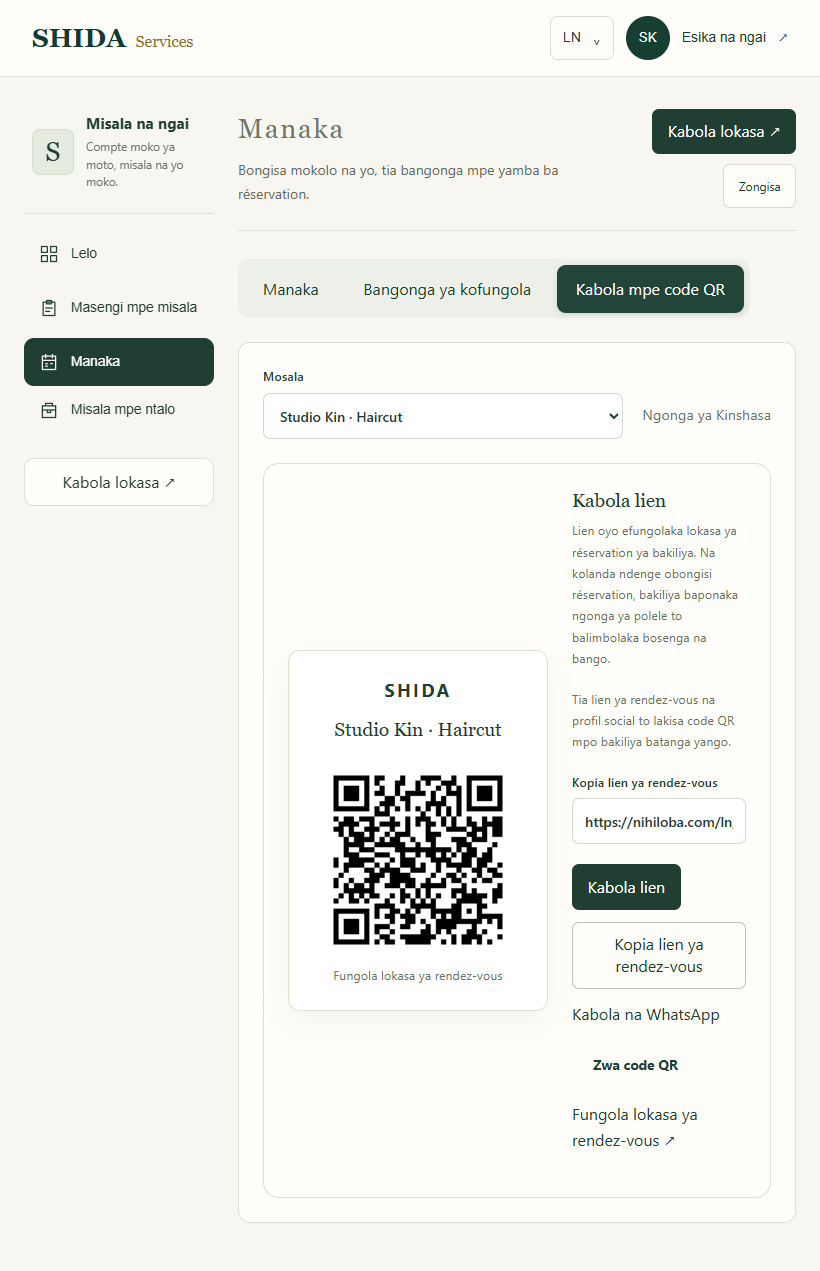
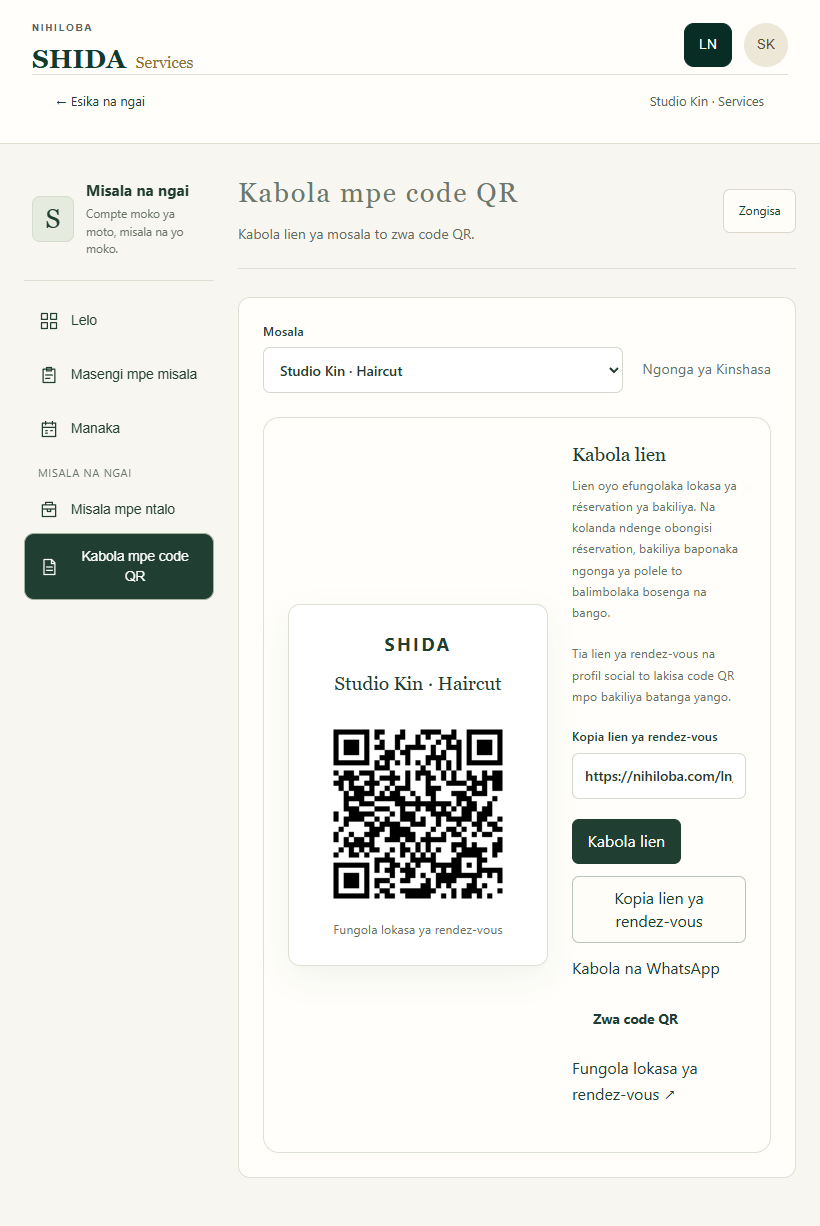
Group provider tools and document Services Today validation

diff --git a/tests/browser/services-provider.browser.ts b/tests/browser/services-provider.browser.ts
@@ -32,6 +32,7 @@ async function fixture(page:Page,{empty=false,bundle='personal_free'}={}){
   if(path.endsWith('/transactions/requests'))return reply({requests:[],has_more:false});
   if(path.endsWith('/transactions/messages'))return reply({threads:[]});
   if(path.endsWith('/transactions/templates'))return reply({templates:[]});
+  if(path.endsWith('/transactions/finance/counter'))return reply({sales:[],next_offset:null});
   if(path.endsWith('/transactions/finance/entries'))return reply({entries:[],next_offset:null});
   if(path.endsWith('/transactions/finance/totals')){const bucket={billed:'0.00',declared_received:'0.00',outstanding:'0.00',unbilled_receipts:'0.00',declared_excess:'0.00',job_expenses:'0.00',services_overhead:'0.00',recorded_expenses:'0.00',declared_surplus:'0.00'};return reply({currencies:{CDF:bucket,USD:bucket}});}
   if(path.endsWith('/transactions/bill-presentation'))return reply({display_name:null,accent:'green',revision:1,fallback_display_name:'Atelier Kin',preview:{display_name:'Atelier Kin',accent:'green'}});
@@ -88,7 +89,7 @@ test('session replacement clears private drafts and expired sessions return to W
  const editor=page.locator('.svc-service-editor');await editor.getByRole('textbox').first().fill('Private draft');
  state.binding='b'.repeat(64);state.rows=[];await page.evaluate(()=>window.dispatchEvent(new Event('shida-personal-session-changed')));
  await expect(editor).toHaveCount(0);await expect(page.locator('input[value="Private draft"]')).toHaveCount(0);
- state.signedIn=false;await page.evaluate(()=>window.dispatchEvent(new Event('focus')));await expect(page.locator('.svc-workspace')).toHaveCount(0);await expect(page.getByRole('button',{name:"Sign in with WhatsApp",exact:true})).toBeVisible();
+ state.signedIn=false;await page.evaluate(()=>window.dispatchEvent(new Event('focus')));await expect(page.locator('.svc-workspace')).toHaveCount(0);await expect(page.getByRole('button',{name:"Continue with WhatsApp",exact:true})).toBeVisible();
 });
 
 for(const [locale,width] of [['en',1440],['en',320],['fr',390],['ln',820],['sw',360]] as const)test(`Services setup form ${locale} ${width}`,async({page})=>{

diff --git a/app/components/shida/services-provider-navigation.tsx b/app/components/shida/services-provider-navigation.tsx
@@ -1,6 +1,7 @@
 "use client";
 import {useRef,useState} from "react";
 import {providerCopy,type ProviderLocale,type ProviderView} from "../../lib/services-provider-copy";
+import {todayCopy} from "../../lib/services-today-copy";
 import {workdayCopy} from "../../lib/services-workday-copy";
 import {SellerWorkspaceIcon} from "./seller-workspace";
 
@@ -14,7 +15,7 @@ export function ServicesProviderNavigation({locale,items,current,onNavigate}:{lo
  return <nav onKeyDown={event=>{if(event.key==="Escape"&&expanded){setExpanded(false);trigger.current?.focus();}}} className="svc-workday-nav" aria-label={t.navigation} data-expanded={expanded}>
   <div className="svc-workday-primary">{main.filter(key=>items.includes(key)).map(button)}<button type="button" ref={trigger} className="svc-mobile-more" aria-expanded={expanded} aria-controls="svc-workday-tools" onClick={()=>setExpanded(!expanded)}><SellerWorkspaceIcon name="settings"/><span>{t.tools}</span></button></div>
   <div className="svc-workday-tools" id="svc-workday-tools">
-   {(["services","counter","finance","available","proposals","share"] as const).filter(key=>items.includes(key)).map(button)}
+   {([["groupWork",["proposals"]],["groupFind",["available"]],["groupServices",["services","share"]],["groupManagement",["counter","finance"]]] as const).map(([label,keys])=>keys.some(key=>items.includes(key))?<div className="svc-nav-group" key={label}><p>{todayCopy[locale][label]}</p>{keys.filter(key=>items.includes(key)).map(button)}</div>:null)}
    {items.some(key=>tools.includes(key))&&<details className="svc-secondary-tools" open={tools.includes(current)||undefined}><summary>{t.tools}</summary><nav aria-label={t.tools}>{items.filter(key=>tools.includes(key)).map(button)}</nav></details>}
    <button type="button" className="svc-mobile-close" onClick={()=>{setExpanded(false);trigger.current?.focus();}}>{w.close}</button>
   </div>

diff --git a/tests/browser/services-workday.browser.ts b/tests/browser/services-workday.browser.ts
@@ -15,14 +15,14 @@ for(const [locale,width] of [["en",1440],["en",390],["fr",390],["ln",820],["sw",
   if(path.endsWith("/services"))return reply({profiles:[row]});
   if(path.endsWith("/today"))return reply({date:"2026-10-21",timezone:"Africa/Kinshasa",requests:{items:[{request_ref:"SWR_one",offering:"Haircut request",requester:"Grâce L."}],has_more:false},pending:empty,upcoming:{items:[{reservation_ref:"RSV_one",offering:row.service_name,requester:"Junior M.",starts_at:"2026-10-21T09:30:00Z"}],has_more:false},messages:empty});
   if(path.endsWith("/reviews"))return reply({reviews:[]});
-  if(path.endsWith("/calendar"))return reply({items:[],has_more:false});
+  if(path.endsWith("/calendar"))return reply({items:[{reference:"RSV_one",title:row.service_name,startsAt:"2026-10-21T09:30:00Z",status:"confirmed"}],has_more:false});
   if(path.endsWith("/share"))return reply({name:row.service_name,url,qr_image:qr});
   return route.fulfill({status:404,json:{detail:"unavailable"}});
  });
  const t=workdayCopy[locale],navCopy=providerCopy[locale];
  await page.goto(`${locale==="en"?"":`/${locale}`}/shida/seller/services`);
  await expect(page.getByRole("heading",{name:t.headline})).toBeVisible();
- await expect(page.locator(".svc-today").getByText("Junior M.")).toBeVisible();
+ await expect(page.locator(".svc-today").getByText(row.service_name,{exact:true})).toBeVisible();
  expect(await page.evaluate(()=>document.documentElement.scrollWidth<=innerWidth)).toBe(true);
  await page.screenshot({path:`docs/evidence/shared-workspaces/services-today-${locale}-${width}.png`,fullPage:true});
  const nav=page.getByRole("navigation",{name:navCopy.navigation});

diff --git a/docs/services-today-refinement-2026-10-31.md b/docs/services-today-refinement-2026-10-31.md
@@ -1,0 +1,37 @@
+# Services Today refinement — 31 October 2026
+
+## Release status
+
+The preceding Wenze public marketplace release is live: backend `07e6931c6d67e5eba58ce319b9a074d40a753439` (Render `dep-dbj0d9ss728c738gc09g`), followed by website `eb9f6e65210b9459c8d453eecf0a49ea0427df57` (Render `dep-dbj0fv8n74is73e1tvdg`). Remote main SHAs and both Render Live states were verified. The live product safety notice and correct-shop reporting form were inspected without submitting a complaint. GitHub returned no combined commit statuses; this is not a claim of green CI.
+
+This Services implementation is a separate validated feature release. The brief requires authorization for this specific deployment; it has not been deployed. No backend, migration, production data, authentication or urgent WhatsApp template changes are included. Website rollback target is `eb9f6e65210b9459c8d453eecf0a49ea0427df57`.
+
+## Implementation batches
+
+1. Daily workspace: compact illustrated header, real KPI cards, priority attention queue, actual appointment timeline, expandable ongoing work, quick actions and matching opportunities. Published services remain a compact secondary summary. Files: `services-today.tsx`, `services-today.css`, `services-today-opportunities.tsx`, `services-today-model.ts`, `services-today-copy.ts`, and integration in `services-management.tsx`.
+2. Navigation and regression validation: grouped existing provider tools without removing Counter, Money, reports, templates, sharing or settings. Updated `services-provider-navigation.tsx`; refreshed browser fixtures for the existing Counter endpoint and current WhatsApp sign-in label. No sign-in behavior changed.
+
+## Reuse and data audit
+
+- Existing provider Today endpoint supplies authenticated direct requests, pending reservations and unread-message previews. Each queue is capped; `has_more` is represented as a lower-bound count, never an exact total.
+- Existing reservations endpoint supplies ongoing accepted, confirmed and in-progress work. References are deduplicated; completed records and proposals are not counted as ongoing work. Its bounded first page is explicitly a preview.
+- Existing calendar supplies appointment references, titles, timestamps and statuses. Today's date uses the existing provider timezone; midnight boundaries are tested. Calendar presentation exposes no new customer contact information.
+- Appointment UI adapts to time-slot capability and actual scheduled data. A flexible provider with no scheduled work gets a useful request-focused dashboard. Failed data remains unavailable rather than becoming zero or all-clear.
+- Existing available-request endpoint retains category and service-area matching, eligibility and authentication. The selected offering is passed to the existing opportunities workflow. Opportunities are separate from incoming customer requests. No invented proximity distances or customer jobs.
+- Existing ServicesCalendar, ServicesOpportunities, transaction detail workflows, provider overview, workspace icons, category copy and date formatting are reused. Server-owned permission checks remain authoritative; denied requests clear the workspace, and requests are scoped to the active session with cancellation and timeouts.
+- Quick actions navigate to existing functionality. No fabricated reply-later, rescheduling, rating, prep-time or availability actions were added.
+- EN, FR, LN and SW use the existing localization pattern. Category presentation uses existing service labels; scheduling depends on capability rather than a profession-name guess.
+
+## Validation
+
+72 focused tests passed: 37 model, calendar, account navigation, gateway and proposal-routing checks; 35 browser checks across the new Today, existing Today recovery, provider navigation and workday suites. Targeted ESLint, TypeScript and production build passed. `git diff --check` passed. The full backend suite was not run for this frontend-only change.
+
+Browser evidence includes populated layouts at 360, 390, 768, 1024 and 1440 pixels; empty flexible providers in four languages; empty scheduled providers; active-work expansion; service selection; exact request navigation; loading, partial failure, complete failure and recovery. Existing browser checks cover sharing, mobile tools, authentication and account access. Isolated request fixtures reject unexpected writes; illustrative records were never inserted in production.
+
+Screenshots: [desktop populated](evidence/services-today/populated-1440.png), [mobile populated](evidence/services-today/populated-390.png), [empty mobile](evidence/services-today/empty-en-390.png), [empty appointments](evidence/services-today/empty-appointments-1440.png), [partial failure](evidence/services-today/partial-error.png), [full failure](evidence/services-today/full-error-390.png). Existing navigation evidence is refreshed under `evidence/shared-workspaces` and `evidence/seller-workspace`.
+
+Visual review confirms the reference hierarchy, pastel summaries, attention-first order and responsive cards. The actual timeline omits invented calendar filler. Opportunities appear below quick actions and the service summary stays secondary. Screenshots use controlled test records, not the signed-in provider's live workload.
+
+## Limits and next release check
+
+Preview endpoints do not provide exhaustive analytical totals. No new totals API was invented. Public opportunities have existing broad location data, not reliable distance measurements. Scheduled work remains distinct from service publication and customer proposals. After specific release authorization, deploy the website and verify its exact live commit, then inspect both an empty and populated authorized provider account. Backend rollout and migrations are unnecessary.
